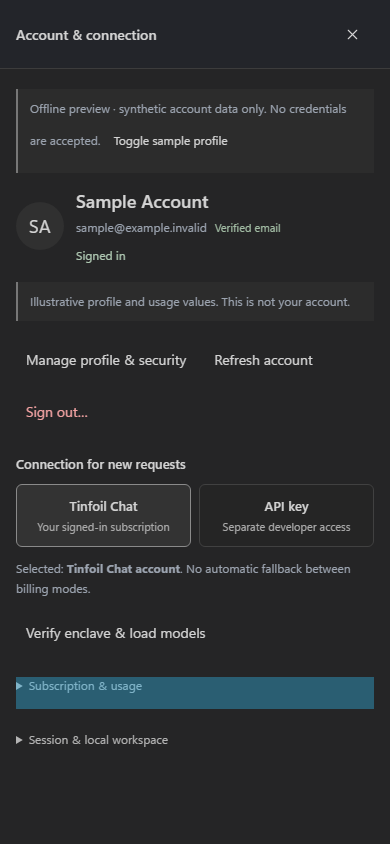
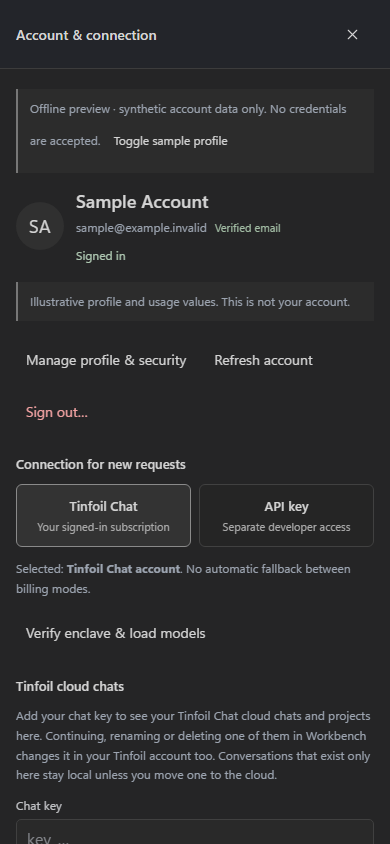
Record the 0.15.0 validation and release artifacts
- docs/VALIDATION.md is now the 0.15.0 record. It covers the cloud sync
  checks (the unit and engine tests, the new browser suite and the sync
  enclave in the packaged-app check), the live check with a real account
  from source, including the rejected chat ID request it found and the
  restore of a real saved sign-in, the Windows gates, a live
  verification of both enclaves through the packaged app and through the
  installed app after a silent upgrade over 0.14.0, how 0.14.0 opens a
  0.15.0 workspace, the Android bundle failure fixed in 117a0d1, the
  browser and device results, the in-place upgrade from the signed
  0.14.0 APK, what did not run, and the artifact hashes. The 0.14.0
  record and checklist move to docs/history/v0.14.0.
- HANDOFF states what ran for 0.15.0; README's verification summary,
  ARCHITECTURE and RELEASING name 0.15.0 and the eleven browser suites;
  CHANGELOG gives the final test count and notes that Android is
  unchanged.
- Screenshots and check records are regenerated from the build commit,
  including the cloud suite's first screenshots and record.

The packaged files are unchanged from 117a0d1.

diff --git a/docs/VALIDATION.md b/docs/VALIDATION.md
@@ -1,51 +1,65 @@
-# Tinfoil Workbench 0.14.0 — validation record
+# Tinfoil Workbench 0.15.0 — validation record
 
-Recorded 29 September 2026 for the 0.14.0 release. It keeps a Tinfoil Chat sign-in on Windows across restarts and updates. The record lists what ran, what failed on the way, and what did not run. The previous record is in [history/v0.13.2](history/v0.13.2/VALIDATION.md).
+Recorded 29 September 2026 for the 0.15.0 release. It adds two-way sync with Tinfoil Chat's cloud chats and projects to the Windows app. The record lists what ran, what failed on the way, and what did not run. The previous record is in [history/v0.14.0](history/v0.14.0/VALIDATION.md).
 
 ## Environment
 
 - **Windows build machine:** Windows 11 Pro 10.0.26200 (x64).
-- **Toolchain (unchanged from 0.13.2):** Node.js 24.21.0 LTS with npm 11.19.0; Electron 44.4.3 (Chromium 152.0.7977.130), electron-builder 26.17.0, TypeScript 5.8.3, tinfoil 1.2.1, pdfjs-dist 5.4.149, zod 4.6.5; Python 3.10 for the Python-runner tests; Playwright 1.63.0 with its bundled Chromium 153.0.8010.12 (build 1243) for the browser suites.
+- **Toolchain (unchanged from 0.14.0):** Node.js 24.21.0 LTS with npm 11.19.0; Electron 44.4.3 (Chromium 152.0.7977.130), electron-builder 26.17.0, TypeScript 5.8.3, tinfoil 1.2.1, pdfjs-dist 5.4.149, zod 4.6.5; Python 3.10 for the Python-runner tests; Playwright 1.63.0 with its bundled Chromium 153.0.8010.12 (build 1243) for the browser suites.
 - **Android toolchain (unchanged):** Temurin JDK 21.0.12.1, Android SDK platform 36 and build-tools 36.0.0, Capacitor 8.5.2, Android Gradle Plugin 8.13.0, Gradle 8.14.3, androidx.webkit 1.14.0.
 - **Emulators:** Google APIs x86_64 system images, WHPX acceleration, headless with SwiftShader.
 
 ## Dependencies
 
-- **No dependency changes** since 0.13.2; the lockfile differs only in its version field. A clean `npm run bootstrap` followed by `npm run doctor` passed all 28 entries.
-- **Audit:** `npm audit --omit=dev` reports no known vulnerabilities. The full audit reports the same three moderate advisories as 0.13.2, in the dev-only chain `@capacitor/cli` → `xcode` → `uuid` (GHSA-w5hq-g745-h8pq), which is not shipped.
+- **No dependency changes** since 0.14.0; the lockfile differs only in its version field. Cloud sync uses the attested client of the tinfoil SDK that inference already uses. A clean `npm run bootstrap` followed by `npm run doctor` passed all 28 entries.
+- **Audit:** `npm audit --omit=dev` reports no known vulnerabilities. The full audit reports the same three moderate advisories as 0.14.0, in the dev-only chain `@capacitor/cli` → `xcode` → `uuid` (GHSA-w5hq-g745-h8pq), which is not shipped.
 
-## Staying signed in
+## Tinfoil cloud chats and projects
 
-Before this release, the website session lived only in the sign-in window's in-memory partition, and quitting ended its Clerk session, so every restart and update asked for a new sign-in. With *Stay signed in on this PC* on (the default), the persistent cookies of `tinfoil.sh` and its subdomains are saved with the user and Clerk session IDs in `account-session.bin`, sealed by Electron safeStorage (DPAPI). They are saved after sign-in, two seconds after they last changed and at quit. At launch they are loaded into a new in-memory partition before Tinfoil's page opens, hidden, and the session is used only if it belongs to the saved user and Clerk session. [ACCOUNT.md](ACCOUNT.md) and [SECURITY.md](../SECURITY.md) describe what is saved and how it is protected.
+With a chat key added under Account → Tinfoil cloud chats, the Windows app lists the account's cloud chats and projects, loads a chat's messages when it is opened, and writes continued, renamed, edited, moved and deleted cloud chats back. The key is sent only to the sync enclave (`sync.tinfoil.sh`) through the SDK's attested client, verified against `tinfoilsh/confidential-sync`. Writes name the version they were made against; if a chat changed in Tinfoil meanwhile, the cloud version wins and Workbench's version is kept as a local copy. [CLOUD.md](CLOUD.md) describes the design and [SECURITY.md](../SECURITY.md) its boundaries.
 
 ### Checks
 
-- `tests/account-remember.test.mjs` (13 tests), with a reversible stand-in for safeStorage and fake Electron objects:
-  - the store: nothing in plaintext, a record with a foreign cookie refused whole, an unreadable file deleted, no save without OS encryption;
-  - the cookie filter: only persistent cookies of `tinfoil.sh` and its subdomains;
-  - the window: cookies set before the page loads, a hidden window, the read bound to the saved IDs, closing without ending the Clerk session, and a page that never becomes ready;
-  - the session: saving at sign-in, on cookie changes (once per burst, dropped at sign-out) and at quit; a restore followed by the access check; an ended, changed or foreign session deleted without ending any session; an offline start kept and retried at the next Chat request; the switch; sign-out and invalidation; Android without a store; the workspace preference.
-- `tests/account.test.mjs`: its 64 tests pass against the changed window and session code.
-- `tests/ui-account.py` gains two checks: the Restoring state offers no sign-in or mode change, and the switch is on by default and changes the session text.
+- `tests/cloud.test.mjs` (9 tests): key parsing in both forms, grouping messages into turns, mapping chats and projects, write-back fidelity (an unchanged chat is unchanged; unknown fields are kept; edits, new turns, renames and long chats), project context and validation.
+- `tests/cloud-sync.test.mjs` (16 tests): the sync engine against an in-memory enclave with the same version rules (the key check, listing and loading, write-back, conflicts before and during a write, re-sealed rows, deletions on both sides, uploads, another account, a changed key, the 300-chat limit, removing the key); the service commands; the client's wire format over the attested channel only; sync refusals reported as such; chat IDs in Tinfoil Chat's format; the key ID against a WebCrypto HKDF derivation; and the Android worker's imports, which must not reach the cloud modules.
+- `tests/ui-cloud.py` (6 checks), a new browser suite: the Account section signed out, signed in and connected (a masked key field that is cleared after use, sync state, counts, the listing limit, errors and the key ID, never the key), sidebar markers for cloud chats and projects, the loading state, and *Move to Tinfoil cloud* only for local conversations.
+- The packaged-app gate `scripts/check-packaged-provider.mjs` now also verifies the sync enclave through the packaged cloud client (see Windows).
 
-**Not checked with a real account:** the restore of a real Tinfoil session after a restart. The cookies Clerk needs were not observed; the checks use synthetic cookies. If Clerk needs a cookie that is not saved, such as a session cookie, the restore fails safely: the saved sign-in is deleted and the Account view asks for a new sign-in.
+### Live check with a real account
+
+`tests/cloud-live.mjs` ran the app from source with a temporary profile against the maintainer's Tinfoil account, which has cloud sync set up. The tester signed in and added the chat key in the Account view; the harness logged statuses and counts only.
+
+- **First sync:** the account's cloud chats and projects, one of them with instructions, and their documents were listed. The workspace snapshot did not contain the key.
+- **Fidelity, read-only:** the 10 most recent chats (1 to 4 turns) were opened. For each, writing it back unchanged was computed from a fresh pull: all messages and all top-level fields were kept exactly, and the loaded version matched the pulled one. Nothing was written.
+- **The first run stopped at the upload** of its test chat. Workbench requested a chat ID from `api.tinfoil.sh/api/chats/generate-id`, which Tinfoil Chat's current client no longer uses: it makes IDs itself, a 13-digit reverse timestamp, an underscore and a random UUID. The request failed with an HTTP status that Workbench reported as a model rejection, because `publicError` read any 400, 404 or 422 as one. Nothing had been written. Commit `af770a2` makes IDs locally in that format and reports sync errors as the sync service's.
+- **The second run, on `af770a2`,** continued with the first run's profile. The saved sign-in was restored at launch, within about a second and without the sign-in window, and the chat key came from the encrypted workspace. It then repeated the first sync and the fidelity check with the same results, and took a new test chat through its whole life, confirming each step by pulling the row again:
+  - one short message (DeepSeek V4.1 Flash, 64 tokens at most) and *Move to Tinfoil cloud*: version 1, 2 messages, the title and the writer ID matched;
+  - rename: version 2, the new title with `titleState: manual`;
+  - a second short message: version 3, 4 messages in the order user, assistant, user, assistant, and Workbench's link at the same version;
+  - delete, confirmed in the app's dialog: the row answered `NOT_FOUND`, and the conversation was gone locally.
+- **At the end** no file in the profile contained the key, its base64 form or a session token in plaintext, and the account was signed out, which deleted the saved sign-in. The profile was then deleted.
+
+The live check ran from source on `af770a2`. The later commits add the sync enclave to the packaged-app check, the version and, in `497d12f`, move the construction of the sync engine from the shared service to the Windows entry point (see Android). The installed app was not run with a real account.
+
+## Staying signed in
+
+The 0.14.0 record listed the restore of a real sign-in as not checked. The second live run above restored a real Tinfoil Chat session saved by the first run, after that app had quit, from source. The installed app was not checked with a real account: the installed 0.14.0 had no saved sign-in when it was upgraded.
 
 ## Windows
 
 | Check | Result |
 |---|---|
-| `npm test` (strict build + Node tests) | **390 passed**, 0 failed, 0 skipped: the 377 tests of 0.13.2 and 13 in `tests/account-remember.test.mjs`. Python-runner cases ran against a real interpreter. |
+| `npm test` (strict build + Node tests) | **415 passed**, 0 failed, 0 skipped: the 390 tests of 0.14.0, 9 in `tests/cloud.test.mjs` and 16 in `tests/cloud-sync.test.mjs`. Python-runner cases ran against a real interpreter. |
 | `npm run dist:win` | Passed its doctor (28/28), test and native smoke gates, built the x64 NSIS installer and portable executable (unsigned), then `PACKAGE_CHECK_OK` (31 packaged modules) |
-| Packaged app `release\win-unpacked\Tinfoil Workbench.exe --smoke-test` | `DESKTOP_SMOKE_OK`, including the attested SDK import; file version 0.14.0 |
-| Packaged app, live enclave (`check-packaged-provider.mjs`) | `PACKAGED_PROVIDER_OK`: five verification steps, 17 models |
-| Silent upgrade over an installed 0.13.2 (`Setup.exe /S /currentuser`) | Exit 0. The installed executable and its uninstall entry report 0.14.0. The installed app's `--smoke-test` printed `DESKTOP_SMOKE_OK`, and `check-packaged-provider.mjs` run by the installed executable against its own `app.asar` printed `PACKAGED_PROVIDER_OK`. The existing app data (55 files) was unchanged by SHA-256, and the Start menu and desktop shortcuts still point to the installed app |
+| Packaged app `release\win-unpacked\Tinfoil Workbench.exe --smoke-test` | `DESKTOP_SMOKE_OK`, including the attested SDK import; file version 0.15.0 |
+| Packaged app, live enclaves (`check-packaged-provider.mjs`) | `PACKAGED_PROVIDER_OK`: the inference enclave's five verification steps and 17 models, then the sync enclave's five verification steps through the packaged cloud client |
+| Silent upgrade over an installed 0.14.0 (`Setup.exe /S /currentuser`) | Exit 0. The installed executable and its uninstall entry report 0.15.0. The installed app's `--smoke-test` printed `DESKTOP_SMOKE_OK`, and `check-packaged-provider.mjs` run by the installed executable against its own `app.asar` printed `PACKAGED_PROVIDER_OK` with both enclaves. The existing app data (55 files) was unchanged by SHA-256, and the Start menu and desktop shortcuts still point to the installed app |
 | Silent install into a new folder and uninstall | **Not repeated.** The installer configuration is unchanged since 0.12.1, where this check passed |
+| Opening a 0.15.0 workspace in 0.14.0 | 0.14.0's workspace validation, taken from the installed 0.14.0, opens a 0.15.0 workspace with cloud chats, a cloud project and a chat key, and drops the cloud links and the key. It refuses a workspace with more than 300 conversations, the 0.14.0 limit |
 
-After the 0.13.2 release, *Verify & refresh models* with Chat sign-in succeeded in the installed 0.13.2 in a manual check with the real account, the first real-account check of an installed Windows build.
+The eleven production-renderer browser suites passed **451 checks** with no JavaScript errors; the suites that record network requests saw none leave the page. They ran on commit `497d12f`; its renderer preview is byte-identical to the one built from `a97a1f5`, where the suites also passed.
 
-The ten production-renderer browser suites passed **445 checks** with no JavaScript errors; the suites that record network requests saw none leave the page:
-
-| Suite | 0.13.2 | 0.14.0 |
+| Suite | 0.14.0 | 0.15.0 |
 | --- | ---: | ---: |
 | ui-smoke.py | 36 | 36 |
 | ui-artifacts.py | 21 | 21 |
@@ -55,12 +69,13 @@ The ten production-renderer browser suites passed **445 checks** with no JavaScr
 | ui-responsive.py | 93 | 93 |
 | ui-spacing.py | 112 | 112 |
 | ui-activity.py | 32 | 32 |
-| ui-account.py | 66 | 68 |
+| ui-account.py | 68 | 68 |
 | ui-handoff.py | 25 | 25 |
+| ui-cloud.py | — | 6 |
 
 ## Android
 
-The Android app keeps its behaviour: it has no store, so nothing is saved, and the sign-in profile is deleted when the app next starts. The shared account code changed, so the device checks ran as usual.
+The Android app has no cloud sync. Its worker bundles the shared service with a crypto shim that provides only `randomUUID`, so the first 0.15.0 APK build failed: the service imported the sync engine, which reaches Node's `hkdfSync`. Commit `497d12f` moves the engine's construction to the Windows entry point, so the cloud modules are not in the worker, and adds a test of the worker's imports.
 
 `tests/android-device.py` ran against the final APKs:
 
@@ -69,31 +84,33 @@ The Android app keeps its behaviour: it has no store, so nothing is saved, and t
 | Android 16 (API 36), Pixel 7 profile | 133.0.6943.137 | **40/40** | **13/13** |
 | Android 14 (API 34), Pixel 6 profile | 113.0.5672.136 | **36/36** | **13/13** |
 
-The counts equal those of 0.13.2; the debug counts differ because Android 16 runs the sign-in checks and Android 14 one refusal check instead, and the runs started 90 seconds after the emulators had booted.
+The counts equal those of 0.14.0; the debug counts differ because Android 16 runs the sign-in checks and Android 14 one refusal check instead, and the runs started 90 seconds after the emulators had booted.
 
-- **Upgrade in place (Android 16).** The published, signed 0.13.2 APK (its SHA-256 matches the 0.13.2 release) was installed, a starter chosen and a draft typed through the on-screen keyboard. `adb install -r` then installed the signed 0.14.0 APK, which reported versionName 0.14.0. The draft and the starter choice written by 0.13.2 opened, and both persisted across a force-stop.
+- **Upgrade in place (Android 16).** The published, signed 0.14.0 APK (its SHA-256 matches the 0.14.0 release) was installed, a starter chosen and a draft typed through the on-screen keyboard. `adb install -r` then installed the signed 0.15.0 APK, which reported versionName 0.15.0. The draft and the starter choice written by 0.14.0 opened, and both persisted across a force-stop.
 - **Phone.** Not used for this release.
 - **Android 11** (API 30) was not rerun. In 0.12.0 the app refused its stock WebView as designed, and nothing that affects that check has changed.
 
 ## Not executed
 
-- **Restoring a real sign-in** after a restart or an update (see above). With the installed app: sign in, quit, reopen; the account must be restored without the sign-in window.
-- **Sign-in:** no sign-in with a real account ran for this release. Still open: the release-signed Android APK with a real account; additional sign-in methods on Windows; additional sign-in methods on Android; other phones, and WebViews between 113 and 133.
-- **Live failure paths:** sign-out during a key exchange, an account or session change, 401, 402, 403 and 429 responses, and an inference rejection ran only as synthetic checks.
+- **Cloud sync in the installed app** with a real account, and on the final build commit; the live check ran from source on `af770a2`.
+- **Cloud sync cases not reached by the live check:** a conflict with a real concurrent edit in Tinfoil Chat, a chat deleted in Tinfoil Chat while Workbench has unwritten changes, moving a chat between real cloud projects, a new conversation in a real cloud project, chats with images or attachments written back, project documents near their size limits, more than 300 cloud chats, a key rotated in Tinfoil Chat, and sync while another account is signed in. These ran only against the in-memory enclave.
+- **Staying signed in with the installed app:** sign in, quit and reopen; and a restore after an update.
+- **Sign-in:** apart from the live cloud check (Chat sign-in on Windows, from source), no sign-in with a real account ran for this release. Still open: the release-signed Android APK with a real account; additional sign-in methods on Windows; additional sign-in methods on Android; other phones, and WebViews between 113 and 133.
+- **Live failure paths:** sign-out during a key exchange or a sync, an account or session change, 401, 402, 403 and 429 responses, and an inference rejection ran only as synthetic checks.
 - **Windows hardware and configuration:** the silent install into a new folder and uninstall; the portable executable's own smoke output, which its launcher does not pass through; a clean, standard-user Windows machine; display scaling, high contrast, IME and the other manual items in [HANDOFF.md](HANDOFF.md); ARM64 Windows; code signing (not configured).
 - **Android hardware and configuration:** physical devices, tablets and foldables, TalkBack, non-English system pickers, OEM WebViews; a downgrade install.
 - **iOS** is not supported.
 
 ## Release artifacts
 
-The release files were built from commit `4e3b5d2`. The tag commit adds only this record, the archived 0.13.2 record, the updated handoff checklist, README and ARCHITECTURE text, and refreshed screenshots and check records, none of which is packaged. The packaging, smoke, live packaged, upgrade and release-mode device checks ran on these exact files; the debug device checks used the debug APK built from the same commit.
+The release files were built from commit `497d12f`. The tag commit adds only this record, the archived 0.14.0 record, the updated handoff checklist, README, ARCHITECTURE and CHANGELOG text, and refreshed screenshots and check records, none of which is packaged. The packaging, smoke, live packaged, upgrade and release-mode device checks ran on these exact files; the debug device checks used the debug APK built from the same commit.
 
 | File | Bytes | SHA-256 |
 |---|---:|---|
[6 lines of base64/hex data omitted]
 
[2 lines of base64/hex data omitted]
 
-GitHub Actions passed all three workflows on commit `4e3b5d2`, in the pull request runs 36502335910 (Windows client, including the package check and the packaged app's smoke test), 36502336057 (Android client) and 36502336036 (renderer UI suites).
+GitHub Actions passed all three workflows on commit `497d12f`, in the pull request runs 36507936493 (Windows client, including the package check and the packaged app's smoke test), 36507936638 (Android client, whose build includes the worker bundle) and 36507936489 (renderer UI suites, now eleven).

diff --git a/docs/history/v0.14.0/HANDOFF.md b/docs/history/v0.14.0/HANDOFF.md
@@ -1,8 +1,8 @@
-# Manual acceptance checklist — 0.15.0
+# Manual acceptance checklist — 0.14.0
 
 This checklist covers what automated checks cannot establish.
 
-For 0.15.0, the build steps in section 1 were already run on the build machine: bootstrap, doctor, tests, native smoke, packaging, the package check, the packaged smoke, a live verification of the inference and cloud sync enclaves through the packaged app, and a silent upgrade over an installed 0.14.0 with the installed app's smoke and live verification. So were the Android emulator checks in section 6 marked *automated*. Tinfoil cloud chats (section 2) were checked with a real account from source, which also restored a real saved sign-in after a restart; neither has been checked in the installed app. Chat sign-in, including a key renewal after expiry, was checked with a real account for earlier releases, on Windows (from source) and on one Android phone (debug build); the sign-in code has not changed since. See [VALIDATION.md](VALIDATION.md). Repeat section 1 on a clean, standard-user Windows machine. Sections 2–5 and the manual part of section 6 remain open until someone performs them with a real account on real hardware.
+For 0.14.0, the build steps in section 1 were already run on the build machine: bootstrap, doctor, tests, native smoke, packaging, the package check, the packaged smoke, a live enclave verification through the packaged app, and a silent upgrade over an installed 0.13.2 with the installed app's smoke and live verification. Restoring a real sign-in after a restart (section 2) has not been checked. So were the Android emulator checks in section 6 marked *automated*. Chat sign-in, including a key renewal after expiry, was checked with a real account for earlier releases, on Windows (from source) and on one Android phone (debug build); the sign-in code has not changed since. See [VALIDATION.md](VALIDATION.md). Repeat section 1 on a clean, standard-user Windows machine. Sections 2–5 and the manual part of section 6 remain open until someone performs them with a real account on real hardware.
 
 ## 1. Establish the build
 
@@ -18,7 +18,7 @@ npm run smoke:desktop
 npm start
 ```
 
-Stop at the first failing command and preserve its output. Bootstrap runs npm ci against the committed, reviewed lockfile and fetches the Electron binary, verified against the checksums shipped in the pinned electron package. A DNS/proxy failure is not resolved by deleting validation or enabling plaintext storage. Review npm’s audit output and notices; for 0.15.0 it reported no known vulnerabilities in runtime dependencies (see VALIDATION.md). Upgrades should be deliberate and retested, not an unconditional `--force` fix.
+Stop at the first failing command and preserve its output. Bootstrap runs npm ci against the committed, reviewed lockfile and fetches the Electron binary, verified against the checksums shipped in the pinned electron package. A DNS/proxy failure is not resolved by deleting validation or enabling plaintext storage. Review npm’s audit output and notices; for 0.14.0 it reported no known vulnerabilities in runtime dependencies (see VALIDATION.md). Upgrades should be deliberate and retested, not an unconditional `--force` fix.
 
 `doctor` must report all entries passing. A source-only pass says nothing about installation readiness. Native smoke must exit zero and print `DESKTOP_SMOKE_OK: encrypted storage, bridge, attested SDK import, native PDF print and PDF.js canvas`. It temporarily changes userData so it does not test against your real workspace. A smoke pass still does not exercise real authentication or the manual close interactions below.
 
@@ -28,7 +28,7 @@ Python is optional for normal use. Native runner tests are skipped without a det
 
 Begin with nonsensitive test content. Confirm that the empty workspace offers Set up connection, Advanced is not required, and the system-prompt field can remain blank. Choose one connection mode explicitly. Developer API credentials and a Chat subscription are separate; no automatic fallback is permitted.
 
-For Chat mode, sign in on Tinfoil’s sign-in page in the separate window and note the method used. Check the displayed identity and subscription/access state, then run Verify enclave & load models. If verification or the model list fails, the message must name the cause (a timeout, the verification step that failed, an ended session, or a network error code); record it. Open *Choose model*: it must list Tinfoil's chat models with their makers' logos and descriptions, and the welcome page must show the chosen model's maker logo. Send one short message. Leave the app open until the key’s expiry shown under Session & local workspace has passed (about 15 minutes), then send again: the reply must arrive without another sign-in. Inspect returned text/reasoning, stop another response and refresh account details. Quit and relaunch: with *Stay signed in on this PC* on, the account must be restored without the sign-in window and a message must send; then sign out, and a relaunch must require sign-in again. With the option off, a relaunch must require sign-in. Profile management must open the provider’s own interface, not produce a fake local save. For Tinfoil cloud chats (Windows), add the chat key under Tinfoil cloud chats: your cloud chats and projects must appear, open with their messages, and a test chat continued, renamed and deleted in Workbench must show those changes in Tinfoil Chat; a chat edited in Tinfoil Chat meanwhile must come back as the cloud version plus a “Workbench copy”. `tests/cloud-live.mjs` automates most of this with a test chat. On Android the same steps apply: sign in with email and password on Tinfoil’s page, on its own screen (Google and Apple are refused there with the reason shown), and after a relaunch the stored sign-in must be gone.
+For Chat mode, sign in on Tinfoil’s sign-in page in the separate window and note the method used. Check the displayed identity and subscription/access state, then run Verify enclave & load models. If verification or the model list fails, the message must name the cause (a timeout, the verification step that failed, an ended session, or a network error code); record it. Open *Choose model*: it must list Tinfoil's chat models with their makers' logos and descriptions, and the welcome page must show the chosen model's maker logo. Send one short message. Leave the app open until the key’s expiry shown under Session & local workspace has passed (about 15 minutes), then send again: the reply must arrive without another sign-in. Inspect returned text/reasoning, stop another response and refresh account details. Quit and relaunch: with *Stay signed in on this PC* on, the account must be restored without the sign-in window and a message must send; then sign out, and a relaunch must require sign-in again. With the option off, a relaunch must require sign-in. Profile management must open the provider’s own interface, not produce a fake local save. On Android the same steps apply: sign in with email and password on Tinfoil’s page, on its own screen (Google and Apple are refused there with the reason shown), and after a relaunch the stored sign-in must be gone.
 
 Use a synthetic existing thread to check same-account and different-account history approvals; approval alone must not send. Chat sign-in has been checked on Windows and Android. Additional sign-in methods, and sign-in from the installed Windows app or the release-signed Android app, remain explicit local checks. Do not infer one method from another. If the sign-in page stops, the Account view names any host the window refused; record it. Failure must remain visible and must not charge a saved developer key instead.
 
@@ -66,7 +66,7 @@ After the checks above:
 npm run dist:win
 ```
 
-The command gates packaging behind doctor, tests and native smoke and never publishes. Expected outputs are `release/Tinfoil-Workbench-0.15.0-x64-Setup.exe` and `release/Tinfoil-Workbench-0.15.0-x64-Portable.exe`. Validate the generated filenames and test both on a clean standard-user Windows installation. Code signing is not configured; do not describe artifacts as signed or instructions to disable OS protection. ARM64 requires its own real machine/runner validation.
+The command gates packaging behind doctor, tests and native smoke and never publishes. Expected outputs are `release/Tinfoil-Workbench-0.14.0-x64-Setup.exe` and `release/Tinfoil-Workbench-0.14.0-x64-Portable.exe`. Validate the generated filenames and test both on a clean standard-user Windows installation. Code signing is not configured; do not describe artifacts as signed or instructions to disable OS protection. ARM64 requires its own real machine/runner validation.
 
 Optional PowerShell orchestration: `./scripts/Local-Build.ps1 -Bootstrap -Package`. This script’s native execution remains untested here; the npm commands above are the reference sequence.
 
@@ -93,4 +93,4 @@ Record the device model, Android version, WebView version, the key's billing mod
 
 ## What is deliberately not in the release
 
-No credentials, signing keys, node_modules or font binaries. No cloud sync on Android, arbitrary MCP client configuration, automatic hosted-code provisioning, Windows code signing, or Android Google or Apple sign-in, Python or HTML-to-PDF. Chat sign-in has been exercised on Windows from source, and on Android, on one phone with the debug build; the other sign-in methods, the installed Windows app, the release-signed Android app and the native protected actions still need acceptance on real hardware with a real account.
+No credentials, signing keys, node_modules or font binaries. No cloud sync, arbitrary MCP client configuration, automatic hosted-code provisioning, Windows code signing, or Android Google or Apple sign-in, Python or HTML-to-PDF. Chat sign-in has been exercised on Windows from source, and on Android, on one phone with the debug build; the other sign-in methods, the installed Windows app, the release-signed Android app and the native protected actions still need acceptance on real hardware with a real account.

diff --git a/docs/history/v0.14.0/VALIDATION.md b/docs/history/v0.14.0/VALIDATION.md
@@ -1,0 +1,99 @@
+# Tinfoil Workbench 0.14.0 — validation record
+
+Recorded 29 September 2026 for the 0.14.0 release. It keeps a Tinfoil Chat sign-in on Windows across restarts and updates. The record lists what ran, what failed on the way, and what did not run. The previous record is in [history/v0.13.2](../v0.13.2/VALIDATION.md).
+
+## Environment
+
+- **Windows build machine:** Windows 11 Pro 10.0.26200 (x64).
+- **Toolchain (unchanged from 0.13.2):** Node.js 24.21.0 LTS with npm 11.19.0; Electron 44.4.3 (Chromium 152.0.7977.130), electron-builder 26.17.0, TypeScript 5.8.3, tinfoil 1.2.1, pdfjs-dist 5.4.149, zod 4.6.5; Python 3.10 for the Python-runner tests; Playwright 1.63.0 with its bundled Chromium 153.0.8010.12 (build 1243) for the browser suites.
+- **Android toolchain (unchanged):** Temurin JDK 21.0.12.1, Android SDK platform 36 and build-tools 36.0.0, Capacitor 8.5.2, Android Gradle Plugin 8.13.0, Gradle 8.14.3, androidx.webkit 1.14.0.
+- **Emulators:** Google APIs x86_64 system images, WHPX acceleration, headless with SwiftShader.
+
+## Dependencies
+
+- **No dependency changes** since 0.13.2; the lockfile differs only in its version field. A clean `npm run bootstrap` followed by `npm run doctor` passed all 28 entries.
+- **Audit:** `npm audit --omit=dev` reports no known vulnerabilities. The full audit reports the same three moderate advisories as 0.13.2, in the dev-only chain `@capacitor/cli` → `xcode` → `uuid` (GHSA-w5hq-g745-h8pq), which is not shipped.
+
+## Staying signed in
+
+Before this release, the website session lived only in the sign-in window's in-memory partition, and quitting ended its Clerk session, so every restart and update asked for a new sign-in. With *Stay signed in on this PC* on (the default), the persistent cookies of `tinfoil.sh` and its subdomains are saved with the user and Clerk session IDs in `account-session.bin`, sealed by Electron safeStorage (DPAPI). They are saved after sign-in, two seconds after they last changed and at quit. At launch they are loaded into a new in-memory partition before Tinfoil's page opens, hidden, and the session is used only if it belongs to the saved user and Clerk session. [ACCOUNT.md](../../ACCOUNT.md) and [SECURITY.md](../../../SECURITY.md) describe what is saved and how it is protected.
+
+### Checks
+
+- `tests/account-remember.test.mjs` (13 tests), with a reversible stand-in for safeStorage and fake Electron objects:
+  - the store: nothing in plaintext, a record with a foreign cookie refused whole, an unreadable file deleted, no save without OS encryption;
+  - the cookie filter: only persistent cookies of `tinfoil.sh` and its subdomains;
+  - the window: cookies set before the page loads, a hidden window, the read bound to the saved IDs, closing without ending the Clerk session, and a page that never becomes ready;
+  - the session: saving at sign-in, on cookie changes (once per burst, dropped at sign-out) and at quit; a restore followed by the access check; an ended, changed or foreign session deleted without ending any session; an offline start kept and retried at the next Chat request; the switch; sign-out and invalidation; Android without a store; the workspace preference.
+- `tests/account.test.mjs`: its 64 tests pass against the changed window and session code.
+- `tests/ui-account.py` gains two checks: the Restoring state offers no sign-in or mode change, and the switch is on by default and changes the session text.
+
+**Not checked with a real account:** the restore of a real Tinfoil session after a restart. The cookies Clerk needs were not observed; the checks use synthetic cookies. If Clerk needs a cookie that is not saved, such as a session cookie, the restore fails safely: the saved sign-in is deleted and the Account view asks for a new sign-in.
+
+## Windows
+
+| Check | Result |
+|---|---|
+| `npm test` (strict build + Node tests) | **390 passed**, 0 failed, 0 skipped: the 377 tests of 0.13.2 and 13 in `tests/account-remember.test.mjs`. Python-runner cases ran against a real interpreter. |
+| `npm run dist:win` | Passed its doctor (28/28), test and native smoke gates, built the x64 NSIS installer and portable executable (unsigned), then `PACKAGE_CHECK_OK` (31 packaged modules) |
+| Packaged app `release\win-unpacked\Tinfoil Workbench.exe --smoke-test` | `DESKTOP_SMOKE_OK`, including the attested SDK import; file version 0.14.0 |
+| Packaged app, live enclave (`check-packaged-provider.mjs`) | `PACKAGED_PROVIDER_OK`: five verification steps, 17 models |
+| Silent upgrade over an installed 0.13.2 (`Setup.exe /S /currentuser`) | Exit 0. The installed executable and its uninstall entry report 0.14.0. The installed app's `--smoke-test` printed `DESKTOP_SMOKE_OK`, and `check-packaged-provider.mjs` run by the installed executable against its own `app.asar` printed `PACKAGED_PROVIDER_OK`. The existing app data (55 files) was unchanged by SHA-256, and the Start menu and desktop shortcuts still point to the installed app |
+| Silent install into a new folder and uninstall | **Not repeated.** The installer configuration is unchanged since 0.12.1, where this check passed |
+
+After the 0.13.2 release, *Verify & refresh models* with Chat sign-in succeeded in the installed 0.13.2 in a manual check with the real account, the first real-account check of an installed Windows build.
+
+The ten production-renderer browser suites passed **445 checks** with no JavaScript errors; the suites that record network requests saw none leave the page:
+
+| Suite | 0.13.2 | 0.14.0 |
+| --- | ---: | ---: |
+| ui-smoke.py | 36 | 36 |
+| ui-artifacts.py | 21 | 21 |
+| ui-inline.py | 20 | 20 |
+| ui-seamless.py | 17 | 17 |
+| ui-editing.py | 21 | 21 |
+| ui-responsive.py | 93 | 93 |
+| ui-spacing.py | 112 | 112 |
+| ui-activity.py | 32 | 32 |
+| ui-account.py | 66 | 68 |
+| ui-handoff.py | 25 | 25 |
+
+## Android
+
+The Android app keeps its behaviour: it has no store, so nothing is saved, and the sign-in profile is deleted when the app next starts. The shared account code changed, so the device checks ran as usual.
+
+`tests/android-device.py` ran against the final APKs:
+
+| Device image | Android System WebView | `--debug --live` | `--release` |
+|---|---|---|---|
+| Android 16 (API 36), Pixel 7 profile | 133.0.6943.137 | **40/40** | **13/13** |
+| Android 14 (API 34), Pixel 6 profile | 113.0.5672.136 | **36/36** | **13/13** |
+
+The counts equal those of 0.13.2; the debug counts differ because Android 16 runs the sign-in checks and Android 14 one refusal check instead, and the runs started 90 seconds after the emulators had booted.
+
+- **Upgrade in place (Android 16).** The published, signed 0.13.2 APK (its SHA-256 matches the 0.13.2 release) was installed, a starter chosen and a draft typed through the on-screen keyboard. `adb install -r` then installed the signed 0.14.0 APK, which reported versionName 0.14.0. The draft and the starter choice written by 0.13.2 opened, and both persisted across a force-stop.
+- **Phone.** Not used for this release.
+- **Android 11** (API 30) was not rerun. In 0.12.0 the app refused its stock WebView as designed, and nothing that affects that check has changed.
+
+## Not executed
+
+- **Restoring a real sign-in** after a restart or an update (see above). With the installed app: sign in, quit, reopen; the account must be restored without the sign-in window.
+- **Sign-in:** no sign-in with a real account ran for this release. Still open: the release-signed Android APK with a real account; additional sign-in methods on Windows; additional sign-in methods on Android; other phones, and WebViews between 113 and 133.
+- **Live failure paths:** sign-out during a key exchange, an account or session change, 401, 402, 403 and 429 responses, and an inference rejection ran only as synthetic checks.
+- **Windows hardware and configuration:** the silent install into a new folder and uninstall; the portable executable's own smoke output, which its launcher does not pass through; a clean, standard-user Windows machine; display scaling, high contrast, IME and the other manual items in [HANDOFF.md](HANDOFF.md); ARM64 Windows; code signing (not configured).
+- **Android hardware and configuration:** physical devices, tablets and foldables, TalkBack, non-English system pickers, OEM WebViews; a downgrade install.
+- **iOS** is not supported.
+
+## Release artifacts
+
+The release files were built from commit `4e3b5d2`. The tag commit adds only this record, the archived 0.13.2 record, the updated handoff checklist, README and ARCHITECTURE text, and refreshed screenshots and check records, none of which is packaged. The packaging, smoke, live packaged, upgrade and release-mode device checks ran on these exact files; the debug device checks used the debug APK built from the same commit.
+
+| File | Bytes | SHA-256 |
+|---|---:|---|
[3 lines of base64/hex data omitted]
+
[1 lines of base64/hex data omitted]
+
+GitHub Actions passed all three workflows on commit `4e3b5d2`, in the pull request runs 36502335910 (Windows client, including the package check and the packaged app's smoke test), 36502336057 (Android client) and 36502336036 (renderer UI suites).

diff --git a/README.md b/README.md
@@ -99,10 +99,10 @@ Keyboard shortcuts on Windows: Ctrl+N new thread; Ctrl+K commands; Ctrl+F conver
 
 [docs/VALIDATION.md](docs/VALIDATION.md) records what ran for this release:
 
-- **Windows:** Node tests, the ten browser suites, native smoke tests of the source tree and the packaged app, a check that every module the package needs is in it, a live enclave verification through the packaged and the installed app, a silent upgrade over 0.13.2, and synthetic checks of staying signed in.
-- **Android:** unit tests, and device checks on Android 16 and Android 14 emulators, including a live enclave verification, the model catalog and picker, the sign-in screen and an in-place upgrade from 0.13.2. Chat sign-in was checked with a real account on one phone for 0.13.0, including a key renewal after expiry.
+- **Windows:** Node tests, the eleven browser suites, native smoke tests of the source tree and the packaged app, a check that every module the package needs is in it, a live verification of the inference and cloud sync enclaves through the packaged and the installed app, and a silent upgrade over 0.14.0. Tinfoil cloud chats were checked with a real account from source: the first sync, a read-only check that writing ten real chats back would keep them exactly, and a test chat uploaded, renamed, continued and deleted. That check also restored a real saved sign-in after a restart.
+- **Android:** unit tests, and device checks on Android 16 and Android 14 emulators, including a live enclave verification, the model catalog and picker, the sign-in screen and an in-place upgrade from 0.14.0. Chat sign-in was checked with a real account on one phone for 0.13.0, including a key renewal after expiry.
 
-It also lists what did not run. That includes chat with a real API key, restoring a real sign-in after a restart, the release-signed Android app with a real account, other physical devices and a clean Windows machine. [docs/HANDOFF.md](docs/HANDOFF.md) is the manual acceptance checklist for those remaining checks.
+It also lists what did not run. That includes chat with a real API key, cloud sync and staying signed in with the installed app, cloud sync conflicts with a real concurrent edit, the release-signed Android app with a real account, other physical devices and a clean Windows machine. [docs/HANDOFF.md](docs/HANDOFF.md) is the manual acceptance checklist for those remaining checks.
 
 `preview/index.html` (built by `npm run preview:build`) is a standalone renderer demonstration with labelled synthetic responses; it cannot authenticate. [Rendering measurements](docs/RENDERING.md) describe a synthetic workload.
 

diff --git a/docs/RELEASING.md b/docs/RELEASING.md
@@ -14,7 +14,7 @@ Run from a clean working tree at the commit to be tagged, in this order:
 npm run bootstrap                        # npm ci + checksum-verified Electron binary
 npm run doctor                           # every entry must pass
 npm run dist:win                         # doctor, 300+ Node tests, native smoke, NSIS + portable, then the package check
-python tests/ui-smoke.py                 # …and the other nine ui-*.py suites (after npm run preview:build)
+python tests/ui-smoke.py                 # …and the other ten ui-*.py suites (after npm run preview:build)
 npm run android:apk                      # signed release APK (TINFOIL_ANDROID_SIGNING set)
 node scripts/android-build.mjs --debug   # debuggable APK for device tests
 python tests/android-device.py --debug --live --apk release/Tinfoil-Workbench-<v>-android-debug.apk
@@ -68,6 +68,6 @@ Record any failure, skip or retry in the validation record; do not describe a re
 |---|---|---|
 | `windows.yml` | windows-latest | bootstrap, doctor, Node tests, native Electron/DPAPI/PDF smoke, x64 packaging, the package check and the packaged app's smoke test; uploads the installers as a 14-day artifact |
 | `android.yml` | ubuntu-latest | bootstrap, Node tests, Android debug and unsigned release builds; uploads the debug APK as a 14-day artifact |
-| `renderer.yml` | ubuntu-latest | rebuilds the preview and runs the ten browser UI suites |
+| `renderer.yml` | ubuntu-latest | rebuilds the preview and runs the eleven browser UI suites |
 
 CI artifacts are for verification only; they are not release assets.

diff --git a/docs/ARCHITECTURE.md b/docs/ARCHITECTURE.md
@@ -44,7 +44,7 @@ The encrypted version-1 workspace gains additive visual settings and artifact me
 
 Snapshots exclude API key, cache secret and Python path. Artifacts and source are private conversation data, encrypted at rest but present in renderer memory while the app is open. Source/JSON export and explicitly saved files are unencrypted copies.
 
-Build compiles TypeScript and copies renderer assets. PDF.js module/worker/license are copied from the declared dependency when installed. No font binaries are copied. The reviewed npm lockfile is committed. Desktop smoke checks actual DPAPI/bridge initialization and a production PDF print→PDF.js canvas round trip on Windows (executed for 0.14.0; see VALIDATION.md). Windows CI packages only after tests/smoke succeed.
+Build compiles TypeScript and copies renderer assets. PDF.js module/worker/license are copied from the declared dependency when installed. No font binaries are copied. The reviewed npm lockfile is committed. Desktop smoke checks actual DPAPI/bridge initialization and a production PDF print→PDF.js canvas round trip on Windows (executed for 0.15.0; see VALIDATION.md). Windows CI packages only after tests/smoke succeed.
 
 ## Motion, rendering and theme (0.5)
 

diff --git a/CHANGELOG.md b/CHANGELOG.md
@@ -7,7 +7,8 @@
 - Conversations are limited to 800 on a device (was 300), to leave room for cloud chats.
 - New cloud chats get IDs in Tinfoil Chat's format (a reverse timestamp and a random UUID), made in Workbench as Tinfoil Chat makes them.
 - The packaged-app release check (`scripts/check-packaged-provider.mjs`) also verifies the cloud sync enclave through the packaged cloud client.
-- Add `tests/cloud.test.mjs` (9 tests), `tests/cloud-sync.test.mjs` (15 tests), the browser suite `tests/ui-cloud.py` and the manual live check `tests/cloud-live.mjs`.
+- Android is unchanged: the cloud sync modules stay out of its worker bundle, and a test checks the worker's imports.
+- Add `tests/cloud.test.mjs` (9 tests), `tests/cloud-sync.test.mjs` (16 tests), the browser suite `tests/ui-cloud.py` and the manual live check `tests/cloud-live.mjs`.
 
 ## 0.14.0 — stay signed in on Windows
 
